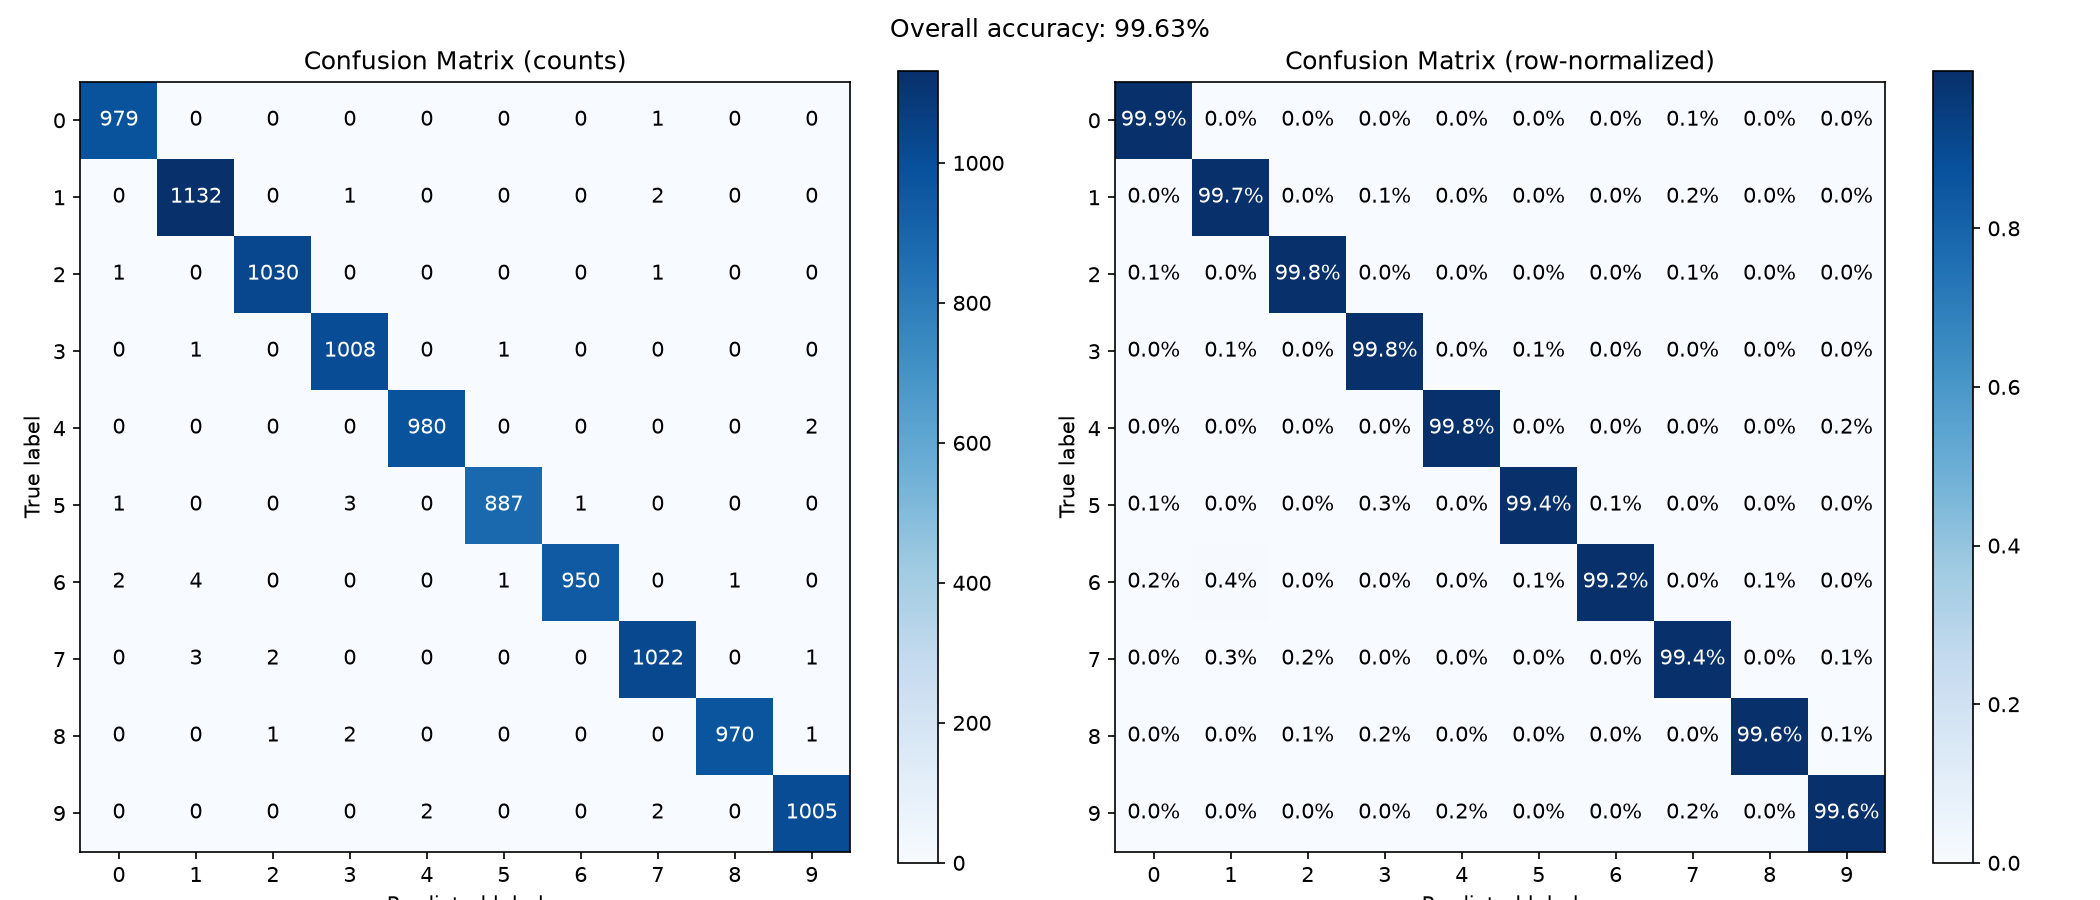
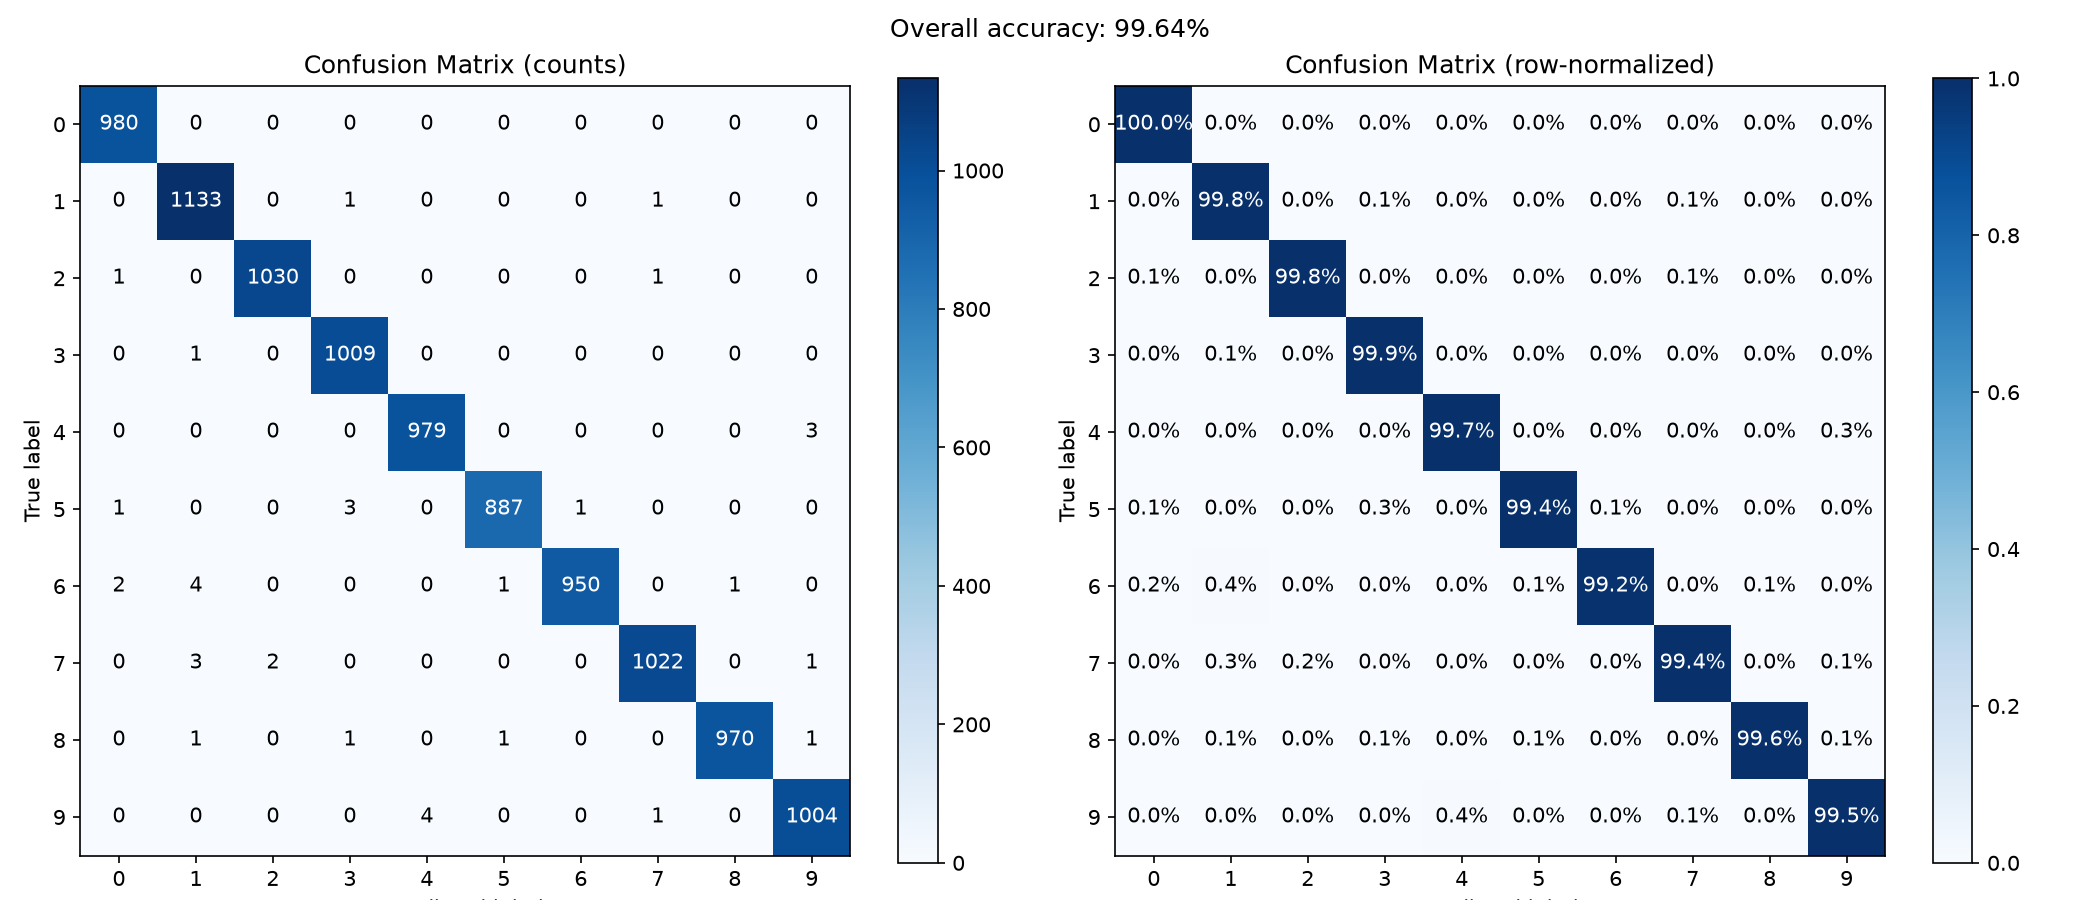
Test nw=24/32: no gain above 16 on 16c/32t; keep nw=16; rerun nw=16 → val 0.0141 @ ep27, test 99.64% (36)

diff --git a/NOTES.md b/NOTES.md
@@ -5,10 +5,14 @@ Made train-loader worker count tunable via `NUM_WORKERS` env var (default 16) in
 A/B (seed 42, 30 epochs, full runs):
 - nw=8:  wall 111.15s,  best val_loss 0.0123 @ ep29, test **99.64%** (36)
 - nw=16: wall **87.91s**, best val_loss 0.0137 @ ep27, test **99.63%** (37)
-- nw=16 re-run: best val_loss 0.0136 @ ep27 (val_loss gap reproducible, not noise —
-  worker count changes the CPU-RNG interleaving that seeds RandomRotation/RandomAffine,
-  so augmented pixels differ per run; test metric is a 1-sample wash).
+Run-to-run variance: same-config nw=16 reruns give val_loss 0.0136→0.0145→0.0141 and
+test ±1 sample — the CPU-RNG interleaving that seeds RandomRotation/RandomAffine differs
+each run, so val_loss wanders ~0.0123–0.0145 and test sits at 99.63–99.64%.
 Decision: keep **nw=16** (~22% faster, no meaningful loss on the final test metric).
+Seq. re-test of higher worker counts (16-core/32-thread Ryzen 9 5950X), run one at a time:
+nw=16 → 88.4s, nw=24 → 88.7s, nw=32 → 91.3s → **no gain above 16**; SMT threads don't
+help a GPU-consumption-bound pipeline, extra workers only add scheduler overhead.
+Final committed model (nw=16 rerun): best val_loss 0.0141 @ ep27, test **99.64%** (36).
 Note: box is shared with Ollama; 16 is fine with current headroom but could contend under load.
 
 ## 2026-09-27 — Train loader made data-loading-bound-friendly (nw=8, persistent, prefetch=4)

diff --git a/README.md b/README.md
@@ -3,7 +3,7 @@
 A PyTorch CNN for MNIST handwritten digit classification, with reproducible
 training, validation-based checkpointing, and test-set evaluation.
 
-Current best result: **99.63% test accuracy** (best val_loss 0.0136 at epoch 27/30).
+Current best result: **99.64% test accuracy** (best val_loss 0.0141 at epoch 27/30).
 
 ## Project layout
 
